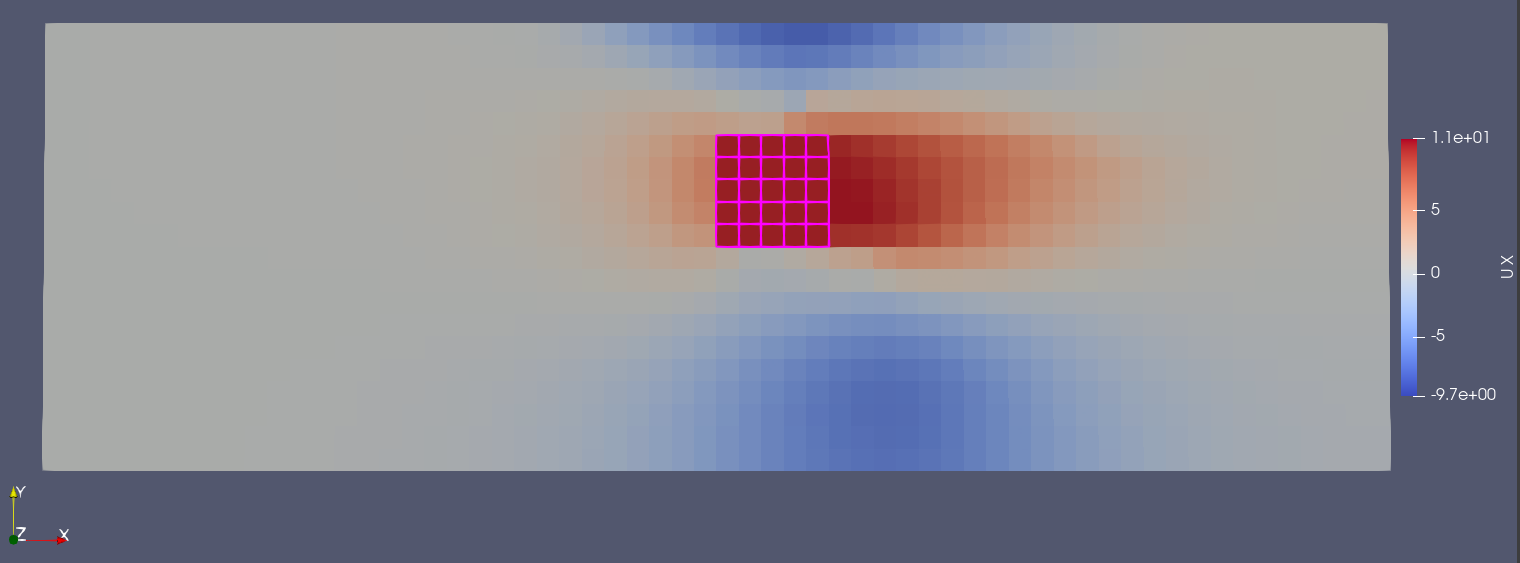
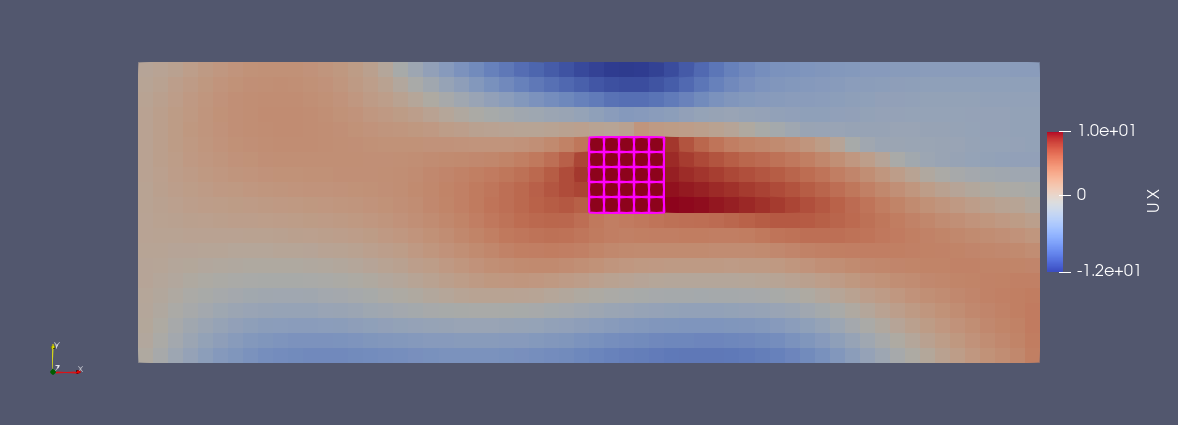
volume-coupled-flow: add y and z components in source term (#544)

diff --git a/changelog-entries/544.md b/changelog-entries/544.md
@@ -1,0 +1,1 @@
+- Fixed the [volume-coupled flow tutorial](https://precice.org/tutorials-volume-coupled-flow.html) to correctly assign all components of the read velocity field.
